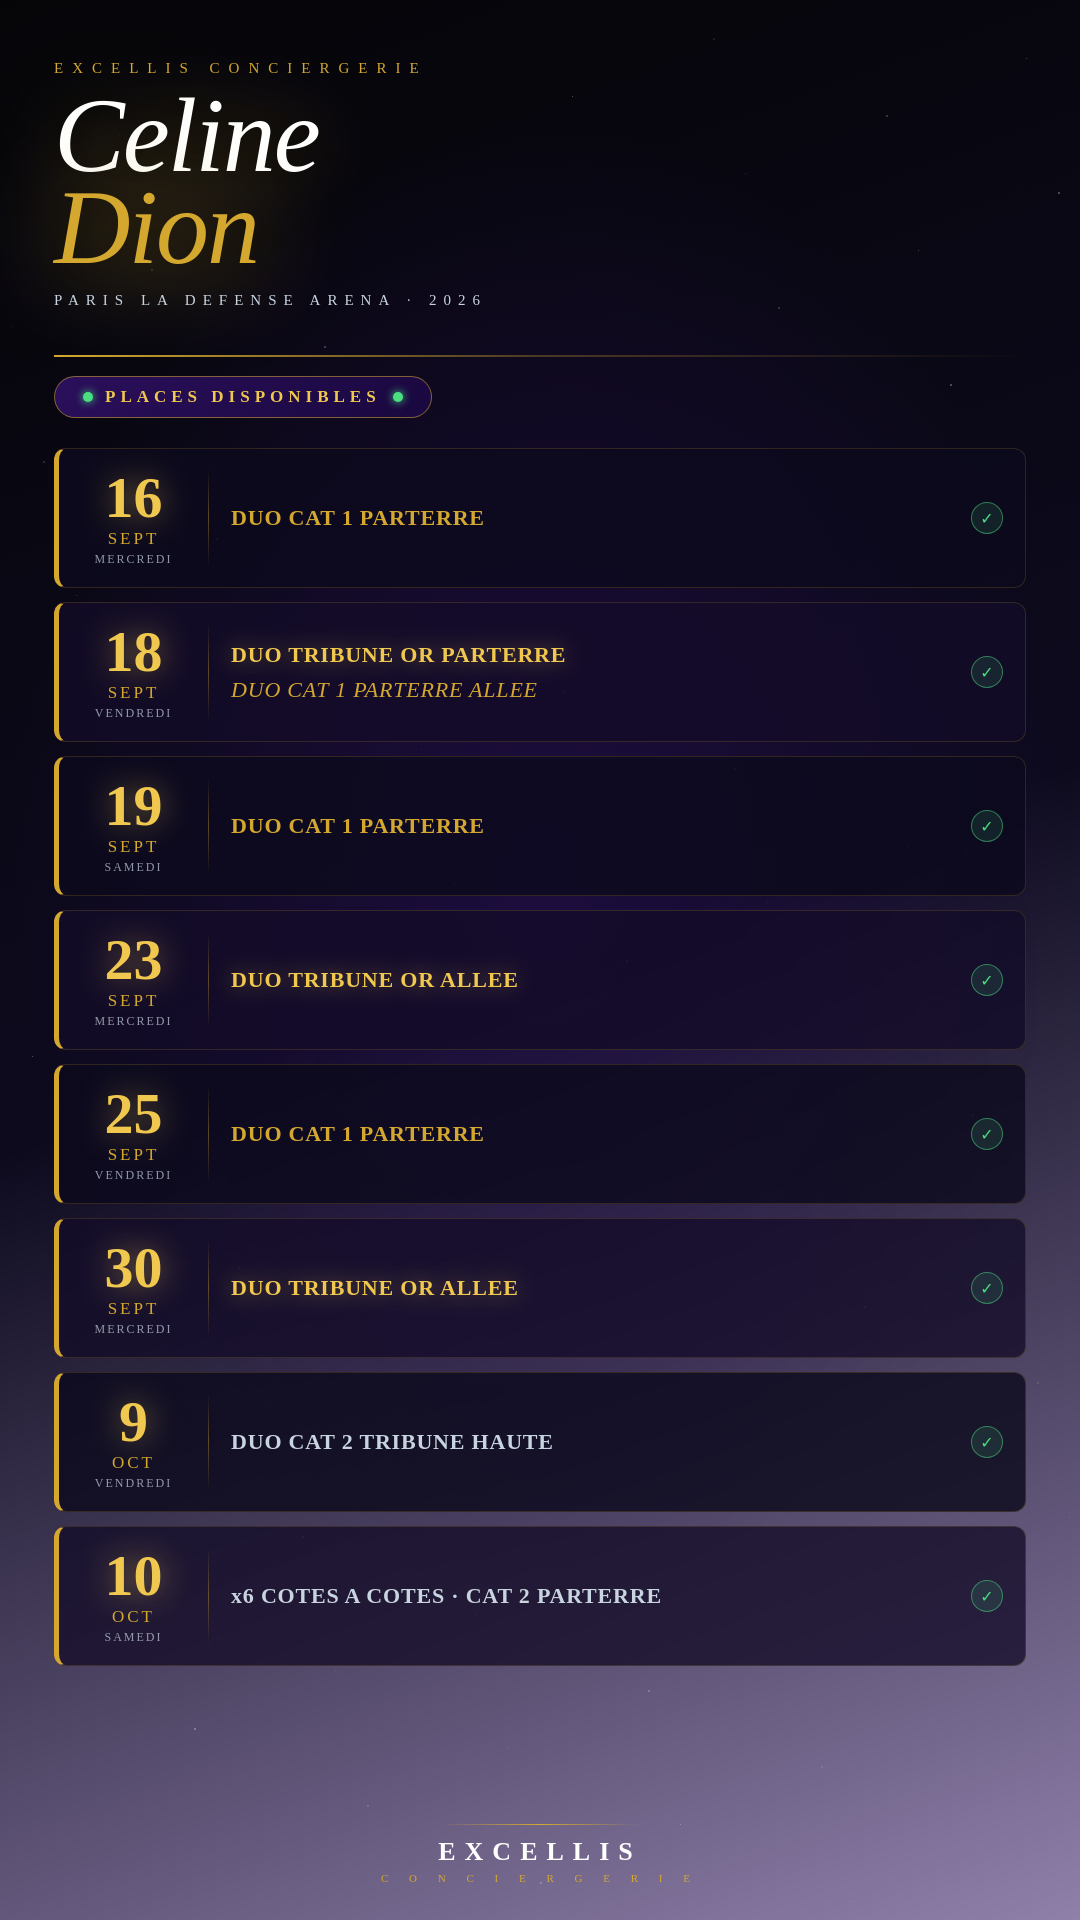
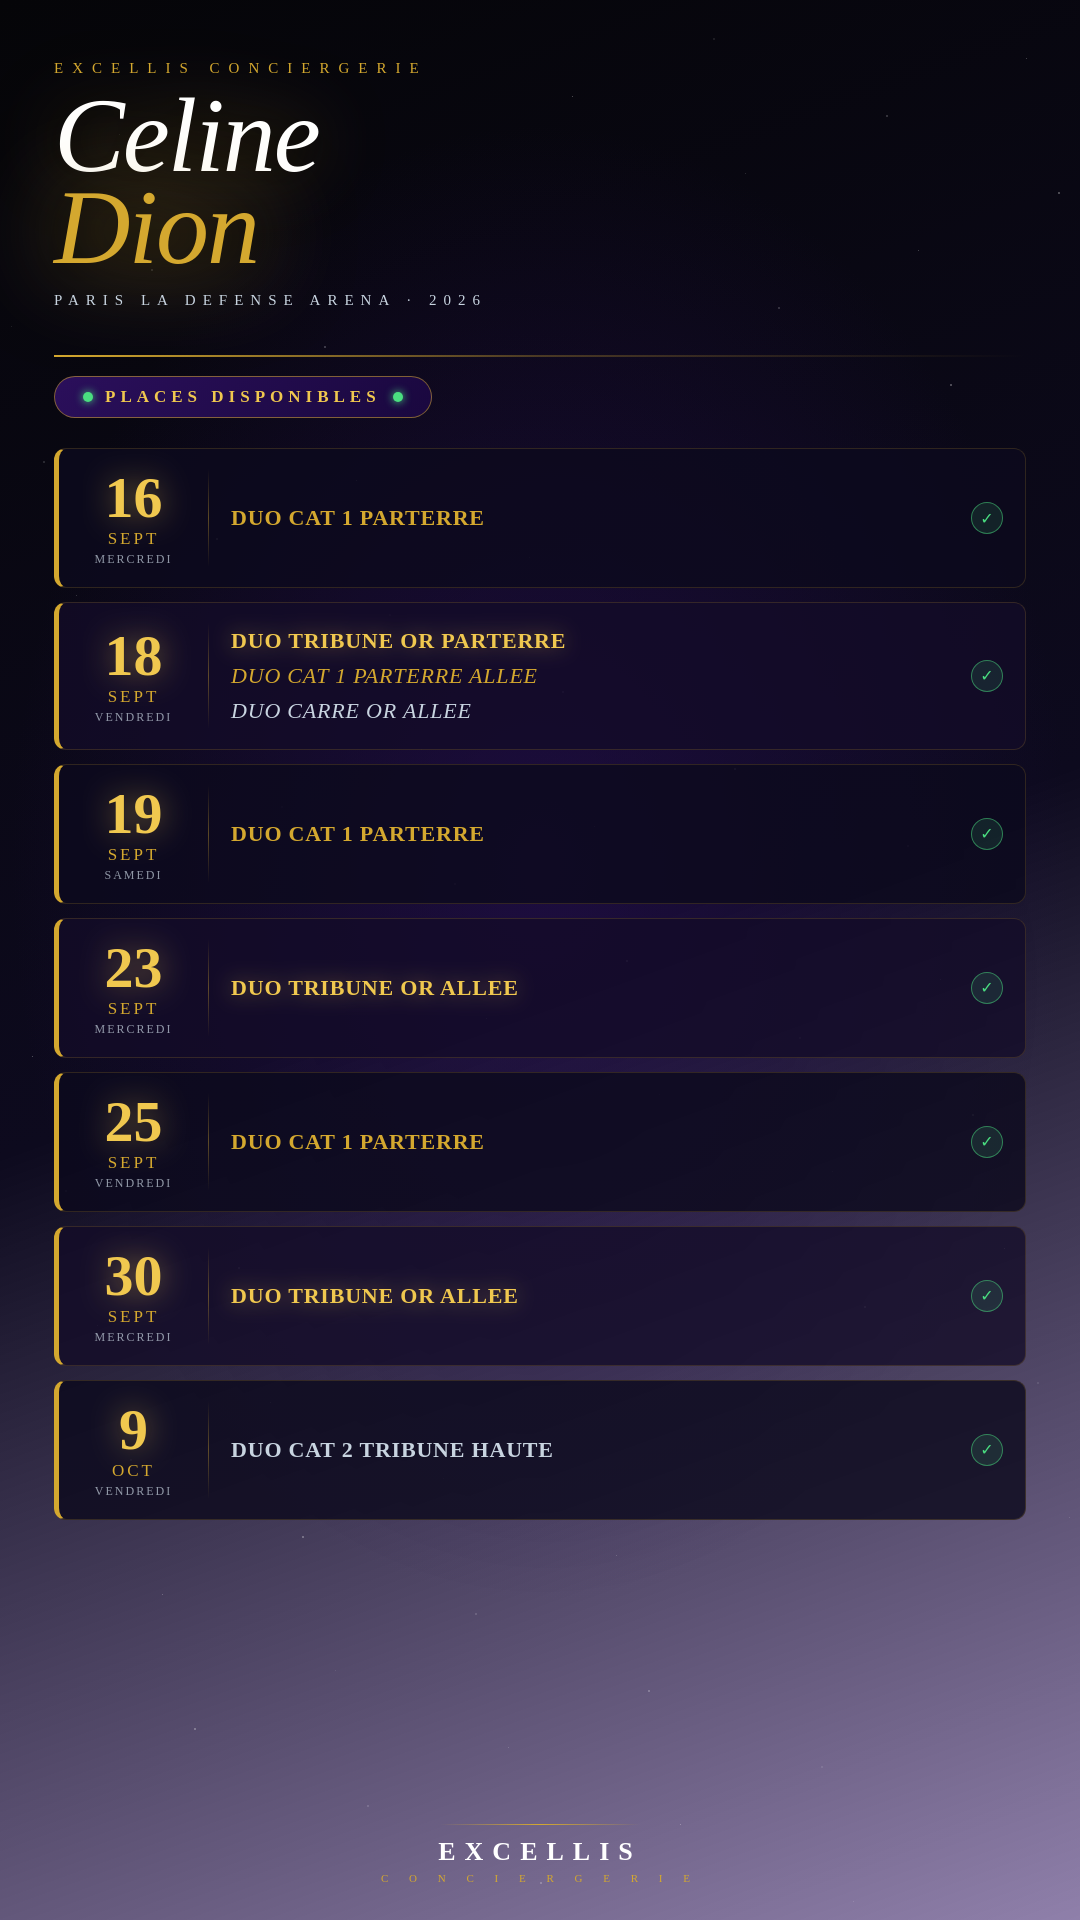
feat: 18 sept +DUO CARRE OR ALLEE, suppression 10 oct
https://claude.ai/code/session_014uMGEqSPpnhtawxAyG3qPw

diff --git a/src/CelineDionPoster.jsx b/src/CelineDionPoster.jsx
@@ -16,7 +16,7 @@ const dates = [
   { day: "16", month: "SEPT", dow: "MERCREDI",
     tickets: ["DUO CAT 1 PARTERRE"] },
   { day: "18", month: "SEPT", dow: "VENDREDI",
-    tickets: ["DUO TRIBUNE OR PARTERRE", "DUO CAT 1 PARTERRE ALLEE"] },
+    tickets: ["DUO TRIBUNE OR PARTERRE", "DUO CAT 1 PARTERRE ALLEE", "DUO CARRE OR ALLEE"] },
   { day: "19", month: "SEPT", dow: "SAMEDI",
     tickets: ["DUO CAT 1 PARTERRE"] },
   { day: "23", month: "SEPT", dow: "MERCREDI",
@@ -27,8 +27,6 @@ const dates = [
     tickets: ["DUO TRIBUNE OR ALLEE"] },
   { day: "9",  month: "OCT",  dow: "VENDREDI",
     tickets: ["DUO CAT 2 TRIBUNE HAUTE"] },
-  { day: "10", month: "OCT",  dow: "SAMEDI",
-    tickets: ["x6 COTES A COTES · CAT 2 PARTERRE"] },
 ];
 
 const ticketColor = (t) => {
